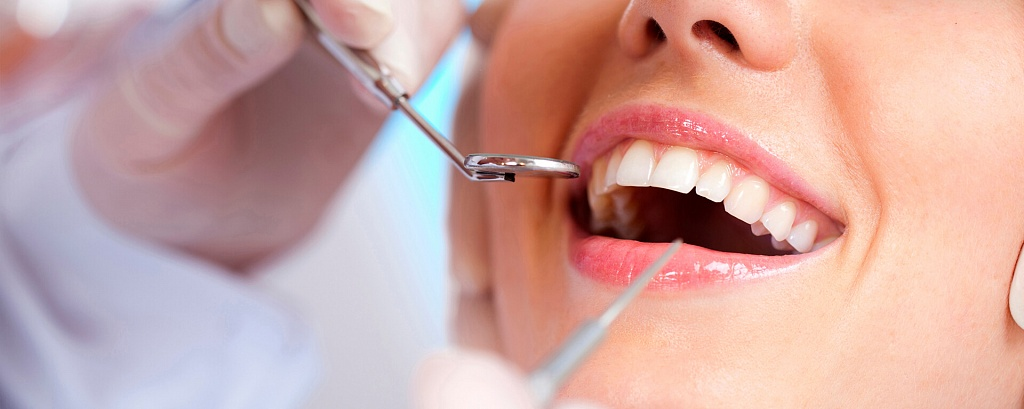
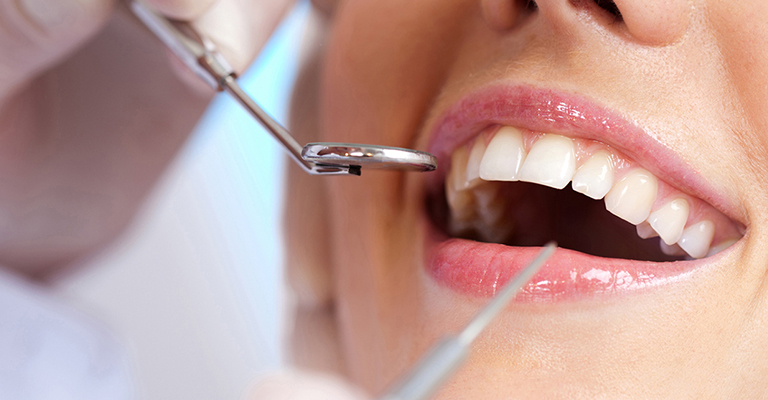
slider_mob

diff --git a/premiera/index.html b/premiera/index.html
@@ -144,7 +144,7 @@
 			</li>
  
 			<li data-date="21/01/2014">
-							<div class="slider1_block" style="background:url(img/slider1_img2.png);">
+							<div class="slider1_block" style="background:url(img/slide2.jpg);">
 							<div class="container">
 								<div class="row">
 								<div class="col-md-12">
@@ -160,7 +160,7 @@
 			</li>
  
 			<li data-date="26/01/2014">
-							<div class="slider1_block" style="background:url(img/slider1_img3.png);">
+							<div class="slider1_block" style="background:url(img/slide3.jpg);">
 							<div class="container">
 								<div class="row">
 								<div class="col-md-12">
@@ -176,7 +176,7 @@
 			</li>
  
 			<li data-date="01/02/2014">
-							<div class="slider1_block" style="background:url(img/slider1_img4.png) center;">
+							<div class="slider1_block" style="background:url(img/slide4.jpg) center;">
 							<div class="container">
 								<div class="row">
 								<div class="col-md-12">
@@ -201,7 +201,7 @@
 					<div class="col-md-12">
 					<div id="slider1" class="owl-carousel">
 						<div>
-							<div class="slider1_block" style="background:url(img/slide1.jpg);">
+							<div class="slider1_block" style="background:url(img/slide1_mob.jpg);">
 							<div class="container">
 								<div class="row">
 								<div class="col-md-12">
@@ -216,7 +216,7 @@
 							</div>
 						</div>
 						<div>
-							<div class="slider1_block" style="background:url(img/slide2.jpg);">
+							<div class="slider1_block" style="background:url(img/slide2_mob.jpg);">
 							<div class="container">
 								<div class="row">
 								<div class="col-md-12">
@@ -231,7 +231,7 @@
 							</div>
 						</div>
 						<div>
-							<div class="slider1_block" style="background:url(img/slider1_img3.png);">
+							<div class="slider1_block" style="background:url(img/slide3_mob.jpg);">
 							<div class="container">
 								<div class="row">
 								<div class="col-md-12">
@@ -246,7 +246,7 @@
 							</div>
 						</div>
 						<div>
-							<div class="slider1_block" style="background:url(img/slider1_img4.png) center;">
+							<div class="slider1_block" style="background:url(img/slide4_mob.jpg) center;">
 							<div class="container">
 								<div class="row">
 								<div class="col-md-12">

diff --git a/premiera/css/media.css b/premiera/css/media.css
@@ -214,8 +214,7 @@ margin-top: 25px;
     display: block;
 }
 .slider1_block {
-min-height: 400px;
-background-size: 100% 100% !important;
+min-height: 570px;
 }
 .slider1_inside {
     top: 87px;
@@ -345,9 +344,6 @@ height: 60px;
     width: 350px;
     padding: 20px 20px 20px 20px;
 }
-.slider1_block {
-background-size: 180% 100% !important;
-}
 a.link_h {font-size: 24px;}
 
 .social_butns_header.footer_social span {
@@ -456,9 +452,7 @@ input.css-checkbox[type="checkbox"] + label.css-label {
 
 /* Custom, iPhone Retina */
 @media only screen and (max-width : 362px) {
-.slider1_block {
-    background-size: 160% 100% !important;
-}
+
 
 h2 {
     font-size: 20px;
